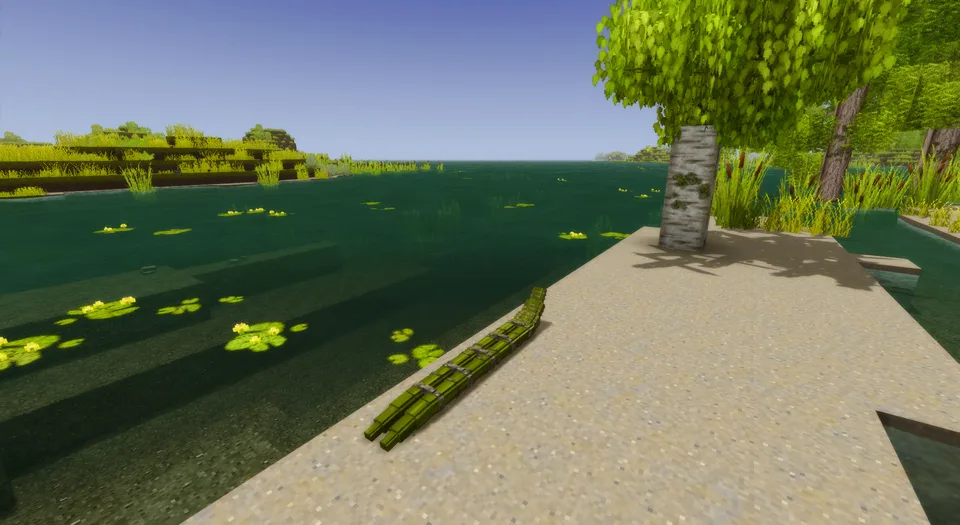
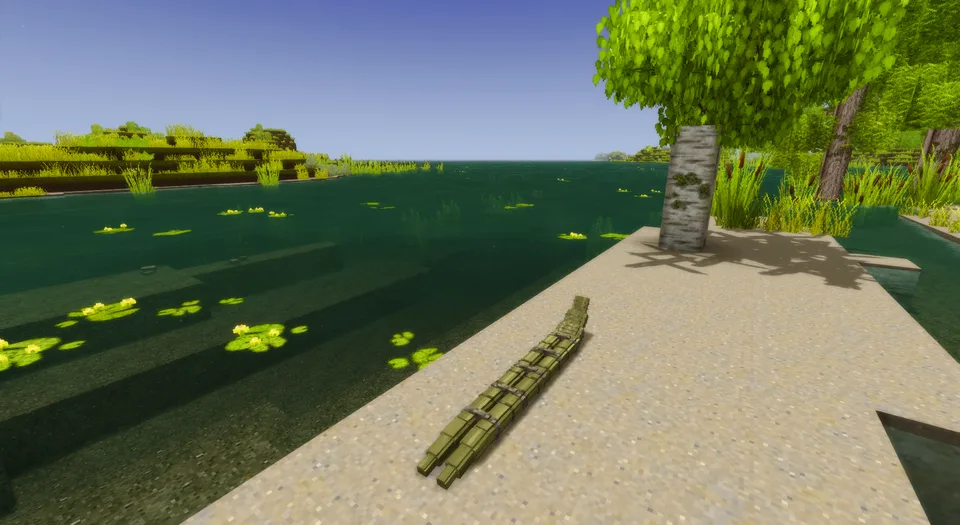
291 fix: a reed boat bound from dried plants
Each plant's bundles take vanilla's own colour for that plant dried: the
greyscale stems of its texture times the tint vanilla draws the standing
plant with. Papyrus is tinted by climate alone, at 40 °C and savanna rain;
cattail and tule are tinted by their seasonal maps in winter, when the
reeds stand dead and are cut for binding.

[claude-opus-5-5] on behalf of hoblin

diff --git a/docs/wiki/Reed-Boat.md b/docs/wiki/Reed-Boat.md
@@ -40,7 +40,7 @@ You bind a reed boat where its bundles lie, anywhere: it is light enough to carr
 
 ![The whole build, from one bundle to the finished boat](images/reed-boat/build-reed-boat.webp)
 
-1. **Bind two bundles.** In the crafting grid, 144 cattail tops, papyrus tops or thatch and two ropes make a three-metre bundle, tied every quarter metre; the knife cuts and trims ([recipe](Recipes#reed-bundle)). A bundle keeps the colour of its plant: olive cattail, green papyrus or straw-pale tule.
+1. **Bind two bundles.** In the crafting grid, 144 cattail tops, papyrus tops or thatch and two ropes make a three-metre bundle, tied every quarter metre; the knife cuts and trims ([recipe](Recipes#reed-bundle)). The plant is bound dried, so a bundle has its dry colour wherever you cut it: brown cattail, pale straw papyrus or olive tule.
 2. **Lay them side by side.** Place a bundle on the ground. It lies along the way you look. Place the second bundle on it, and it lies next to the first, of the same plant or another. Each bundle is three blocks long.
 
    ![One bundle laid on the shore](images/reed-boat/build-bundle.webp)
